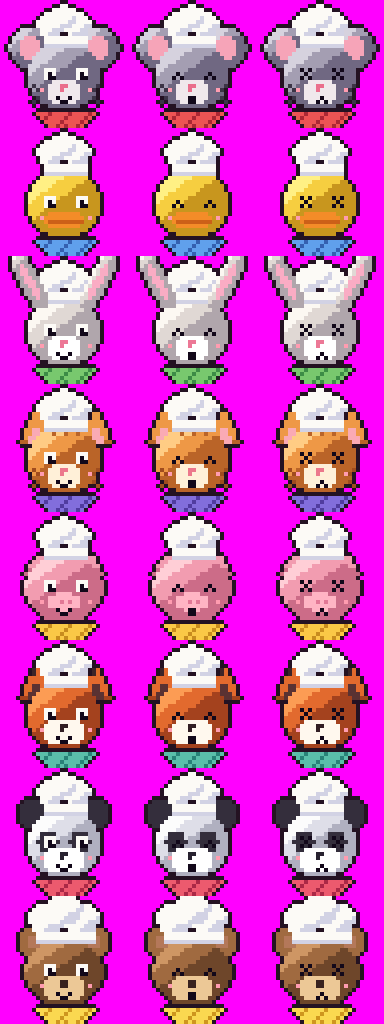
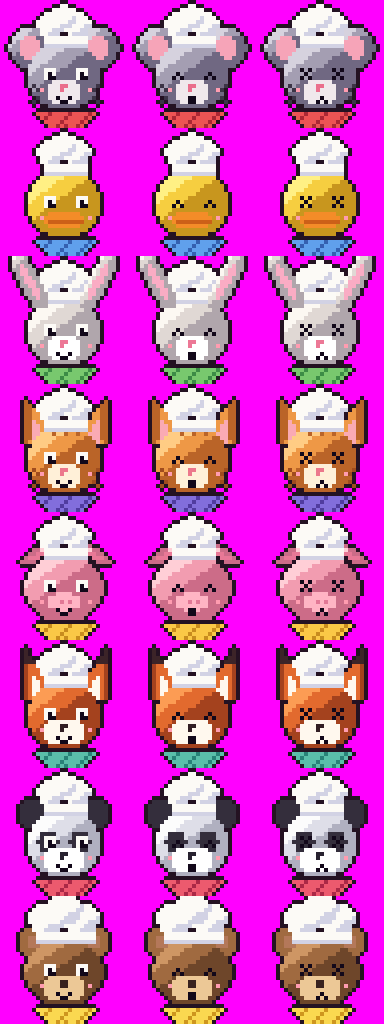
Jelly Jam: graphics polish (rain look, chefs' ears, title jars, pause, edges)
- The rain: grey with a thin navy rim (the navy half made it read as a blueberry); a darker grey mid shade.
- The chefs: Mochi the cat and Basil the fox get pointed ears up beside the toque (the fox's dark-tipped, white
  inside: they read as a dog and a bear before); Truffle the pig's ears show (hidden under the head before).
- The title: no dark holes in the counter under the end jars; the jars mirrored on both ends at every width.
- A shake no longer shows the backdrop at the screen's edges (the wall and the side shelves one tile further).
- Rain falling in from above the picture comes in whole, not sliced at the band's top (navy slivers over the wall).
- Jam droplets stay over their own jar (they flew into the neighbours' fields with 3-4 players).
- PAUSED in play sits under the previews, off the chef's and the heroes' heads; 2 players: P1/P2 centred over
  their stars (P1 sat on the board's edge).

diff --git a/games/jellyjam/src/draw.c b/games/jellyjam/src/draw.c
@@ -108,6 +108,15 @@ static void wall(int tx0, int tx1, int ty0, int ty1)
         for (int tx = tx0; tx < tx1; tx++) kput(tx, ty, wt[((tx >> 1) + (ty >> 1)) & 1][ty & 1][tx & 1]);
 }
 
+/* a jam jar (kind j) at columns tx, tx + 1 standing on the wood whose lip is row ty */
+static void jar_at(int tx, int ty, int j)
+{
+    static const int jt[3][6] = {{KT_JAR0_00, KT_JAR0_01, KT_JAR0_10, KT_JAR0_11, KT_JAR0_20, KT_JAR0_21},
+                                 {KT_JAR1_00, KT_JAR1_01, KT_JAR1_10, KT_JAR1_11, KT_JAR1_20, KT_JAR1_21},
+                                 {KT_JAR2_00, KT_JAR2_01, KT_JAR2_10, KT_JAR2_11, KT_JAR2_20, KT_JAR2_21}};
+    for (int k = 0; k < 6; k++) kput(tx + (k & 1), ty - 3 + k / 2, jt[j][k]);
+}
+
 /* a wooden shelf (its lip at row ty) from column tx0 to tx1, with jars standing on it every 3 columns */
 static void shelf(int tx0, int tx1, int ty, int jars)
 {
@@ -116,12 +125,7 @@ static void shelf(int tx0, int tx1, int ty, int jars)
         kput(tx, ty + 1, KT_WOOD_UNDER);
     }
     if (!jars) return;
-    for (int tx = tx0 + 1, j = ((tx0 * 7 + ty) % 3 + 3) % 3; tx + 2 <= tx1; tx += 3, j = (j + 1) % 3) {
-        static const int jt[3][6] = {{KT_JAR0_00, KT_JAR0_01, KT_JAR0_10, KT_JAR0_11, KT_JAR0_20, KT_JAR0_21},
-                                     {KT_JAR1_00, KT_JAR1_01, KT_JAR1_10, KT_JAR1_11, KT_JAR1_20, KT_JAR1_21},
-                                     {KT_JAR2_00, KT_JAR2_01, KT_JAR2_10, KT_JAR2_11, KT_JAR2_20, KT_JAR2_21}};
-        for (int k = 0; k < 6; k++) kput(tx + (k & 1), ty - 3 + k / 2, jt[j][k]);
-    }
+    for (int tx = tx0 + 1, j = ((tx0 * 7 + ty) % 3 + 3) % 3; tx + 2 <= tx1; tx += 3, j = (j + 1) % 3) jar_at(tx, ty, j);
 }
 
 /* the shelves in the screen's margins (wider than 320) */
@@ -129,8 +133,16 @@ static void side_shelves(const int rows[], int n, int bare)   /* bare: the shelf
 {
     int left = fdiv8(rs_screen_left()), right = fdiv8(rs_screen_right() + 7);
     for (int i = 0; i < n; i++) {
-        if (left < 0) shelf(left, 0, rows[i], i != bare);
-        if (right > 40) shelf(40, right, rows[i], i != bare);
+        if (left < 0) {
+            shelf(left, 0, rows[i], i != bare);
+            kput(left - 1, rows[i], KT_WOOD_LIP);   /* on past the edge (a shake) */
+            kput(left - 1, rows[i] + 1, KT_WOOD_UNDER);
+        }
+        if (right > 40) {
+            shelf(40, right, rows[i], i != bare);
+            kput(right, rows[i], KT_WOOD_LIP);
+            kput(right, rows[i] + 1, KT_WOOD_UNDER);
+        }
     }
 }
 
@@ -138,15 +150,17 @@ static void kitchen(int nf, int title)
 {
     int left = fdiv8(rs_screen_left()), right = fdiv8(rs_screen_right() + 7);
     rs_bg_fill(RS_BG3, 0);
-    wall(left, right, 0, 30);
-    if (title) {                                   /* a counter at the bottom, jars on it at both ends */
-        for (int tx = left; tx < right; tx++) {
+    wall(left - 1, right + 1, 0, 32);              /* a tile more all round: a shake shows no backdrop at the edges */
+    if (title) {                                   /* a counter at the bottom, jars on it at both ends (mirrored) */
+        for (int tx = left - 1; tx <= right; tx++) {
             kput(tx, 27, KT_WOOD_LIP);
             kput(tx, 28, (tx & 3) ? KT_WOOD_BOARD : KT_WOOD_BOARD2);
             kput(tx, 29, KT_WOOD_BOARD);
         }
-        shelf(left, left + 4 > 3 ? 3 : left + 4, 27, 1);
-        shelf(37, right, 27, 1);
+        for (int k = 0; 1 - 3 * k >= left; k++) {
+            jar_at(1 - 3 * k, 27, k % 3);
+            jar_at(37 + 3 * k, 27, (k + 1) % 3);
+        }
         static const int rows[2] = {12, 20};
         side_shelves(rows, 2, -1);
         return;
@@ -251,6 +265,7 @@ static void paint_field(const world *w, int fi, const region *R)
             int k = f->g[r][c];
             if (!k) continue;
             int x = R->ix + c * S, y = R->iy + (VROWS - 1 - r) * S - f->off[r][c] * S / CQ + lost_dy;
+            if (y < 0) continue;            /* rain falling from above the picture: it comes in whole, not sliced */
             int mask = 0;
             if (k <= COLOURS && f->off[r][c] == 0 && r < VROWS) {
                 static const int8_t dr[4] = {1, 0, -1, 0}, dc[4] = {0, 1, 0, -1};
@@ -443,6 +458,7 @@ static void droplets(const field *f, const region *R)
             int vx = ((i * 7 + j * 5) % 9) - 4 + (j ? 2 : -2), vy = -6 - (i + j * 3) % 4;     /* px per 4 frames */
             int x = cx + vx * age / 4, y = cy + vy * age / 4 + age * age / 24;
             if (y > R->y0 + R->iy + R->h) continue;
+            if (x < R->x0 - 2 || x > R->x0 + R->tw * 8 - 6) continue;      /* not over a neighbour's jar */
             spr((age < 18 ? SPR_DROP_0 : SPR_DROPSM_0) + p->colour - 1, x, y, 2, -1);
             drops_left--;
         }
@@ -522,11 +538,12 @@ static void play_texts(const world *w, const flayout *L, int side)
             else add_centred(&u, bx, bw, 19, name);
             rs_strf(s, sizeof s, TR(LEVEL_N), w->level);
             add_centred(&u, bx, bw, side ? 15 : 21, s);
-        } else {
-            rs_strf(s, sizeof s, HTR(PLAYER_TAG), 1);
-            add_text(&u, fdiv8(bx) + 1, 20, s);
-            rs_strf(s, sizeof s, HTR(PLAYER_TAG), 2);
-            add_text(&u, fdiv8(bx + bw) - 1 - hu_width(s, 0), 20, s);
+        } else {                                            /* the tags centred over each player's stars */
+            int mid = bx + bw / 2;
+            for (int p = 0; p < 2; p++) {
+                rs_strf(s, sizeof s, HTR(PLAYER_TAG), p + 1);
+                add_text(&u, fdiv8((p ? mid + 18 : mid - 18) - hu_width(s, 0) * 4 + 4), 20, s);
+            }
         }
     }
     uint32_t h = hash_plan(&u, text_paused);
@@ -673,7 +690,8 @@ void draw_frame(const world *w, int state, int st_t, int best, int new_best, int
     }
     int slide = state == ST_OVER ? hu_slide_in(st_t, 20, 200) : 0;
     rs_bg_scroll(RS_BG1, 0, -slide);
-    hu_pause(paused, 13);
+    /* PAUSED: under the previews, above the chef and the heroes (in play); below a banner (the intro, a round won) */
+    hu_pause(paused, !title && (w->phase == PH_INTRO || w->phase == PH_END) ? 13 : 11);
 
     rs_oam_clear();
     if (state == ST_TITLE) {

diff --git a/games/jellyjam/tools/make_art.py b/games/jellyjam/tools/make_art.py
@@ -51,7 +51,7 @@ RAMPS = [
     [(156, 204, 255), (72, 122, 236), (40, 52, 150)],        # 3 blueberry
     [(255, 244, 156), (250, 202, 52), (196, 126, 22)],       # 4 lemon
 ]
-GREY = (184, 184, 204)
+GREY = (170, 170, 196)
 JELLY_PAL = [OUTLINE, WHITE] + [c for r in RAMPS for c in r] + [GREY]
 NAMES = ["strawberry", "lime", "blueberry", "lemon", "rain"]
 SIZES = (16, 12)
@@ -94,7 +94,10 @@ def body(S, k, mask):
             dx, dy = (x - c) / R, (y - c) / R
             dx, dy = max(-1.0, min(1.0, dx)), max(-1.0, min(1.0, dy))
             nd = dx * LX + dy * LY - 0.28 * (dx * dx + dy * dy) + 0.12
-            cv.set(x, y, lt if nd > 0.42 else md if nd > -0.42 else dk)
+            if k < 4:
+                cv.set(x, y, lt if nd > 0.42 else md if nd > -0.42 else dk)
+            else:                                             # the rain: mostly grey, its navy shade a thin rim
+                cv.set(x, y, lt if nd > 0.42 else md if nd > -0.70 else dk)
     # the outline: outside pixels touching the body, but not on a joined edge of the cell
     add = []
     for y in range(S):
@@ -437,30 +440,34 @@ def chef(i, mood):
         for ex in (-8.5, 8.5):
             hs.ellipse(cv, cx + ex, cy - 7, 5.2, 5.0, fr)
             hs.ellipse(cv, cx + ex, cy - 7, 3.0, 2.8, None, flat=ear)
-    elif animal in ("cat", "fox"):
+    elif animal in ("cat", "fox"):                            # pointed ears, up and out beside the toque
+        tall = animal == "fox"
         for s in (-1, 1):
-            ex = cx + s * 7.5
-            for y in range(int(cy - 12), int(cy - 4)):
-                t = (y - (cy - 12)) / 8.0
-                half = 0.5 + t * 3.0
-                for x in range(int(round(ex - half)), int(round(ex + half)) + 1):
-                    cv.set(x, y, fur[1] if t < 0.8 else fur[2])
-                    if abs(x - ex) < half - 1.2 and t > 0.35:
-                        cv.set(x, y, ear)
-            if animal == "fox":
-                cv.set(int(ex), int(cy - 12), extra), cv.set(int(ex), int(cy - 11), extra)
+            tipx, tipy = cx + s * (10.5 if tall else 9.5), cy - (17 if tall else 15)
+            ins, outs, by = cx + s * 2.5, cx + s * 10.0, cy - 5      # the base: from the brow out to the head's side
+            for y in range(int(tipy), int(by) + 1):
+                t = (y - tipy) / float(by - tipy)
+                a, b = tipx + (ins - tipx) * t, tipx + (outs - tipx) * t
+                lo, hi = (a, b) if a < b else (b, a)
+                for x in range(int(round(lo)), int(round(hi)) + 1):
+                    edge = abs(x - (tipx + (outs - tipx) * t)) < 1.0  # the outer edge, in shade
+                    cv.set(x, y, extra if tall and t < 0.3 else fur[2] if edge else fur[1])
+                    if t > 0.3 and lo + 1.5 < x < hi - 1.5:
+                        cv.set(x, y, ear if not tall else muz[0])
     elif animal in ("bear", "panda"):
         for ex in (-7.5, 7.5):
             hs.ellipse(cv, cx + ex, cy - 7.5, 3.8, 3.6, None, flat=(extra if animal == "panda" else fur[1]))
             if animal == "bear":
                 hs.ellipse(cv, cx + ex, cy - 7.5, 1.8, 1.7, None, flat=ear)
-    elif animal == "pig":
-        for s in (-1, 1):
-            for k in range(5):
-                cv.rect(int(cx + s * (6 + k * 0.6)) - 1, int(cy - 8 + k), int(cx + s * (6 + k * 0.6)) + 1,
-                        int(cy - 8 + k), fur[2] if k > 2 else fur[1])
     # the head
     hs.ellipse(cv, cx, cy, R + (0.8 if animal in ("bear", "pig") else 0), R - 0.5, fr)
+    if animal == "pig":                                       # ears folded forward over the head's top corners
+        for s in (-1, 1):
+            for k in range(5):
+                x0, x1 = cx + s * (5.5 + k * 0.5), cx + s * (5.5 + 1.0 + k * 1.1)
+                lo, hi = (x0, x1) if x0 < x1 else (x1, x0)
+                for x in range(int(round(lo)), int(round(hi)) + 1):
+                    cv.set(x, int(cy - 11 + k), fur[2] if k == 4 or abs(x - x1) < 0.8 else fur[0] if k < 2 else ear)
     if animal == "panda":                                     # eye patches
         for s in (-1, 1):
             hs.ellipse(cv, cx + s * 4.0, cy - 0.5, 2.6, 3.0, None, flat=extra)
